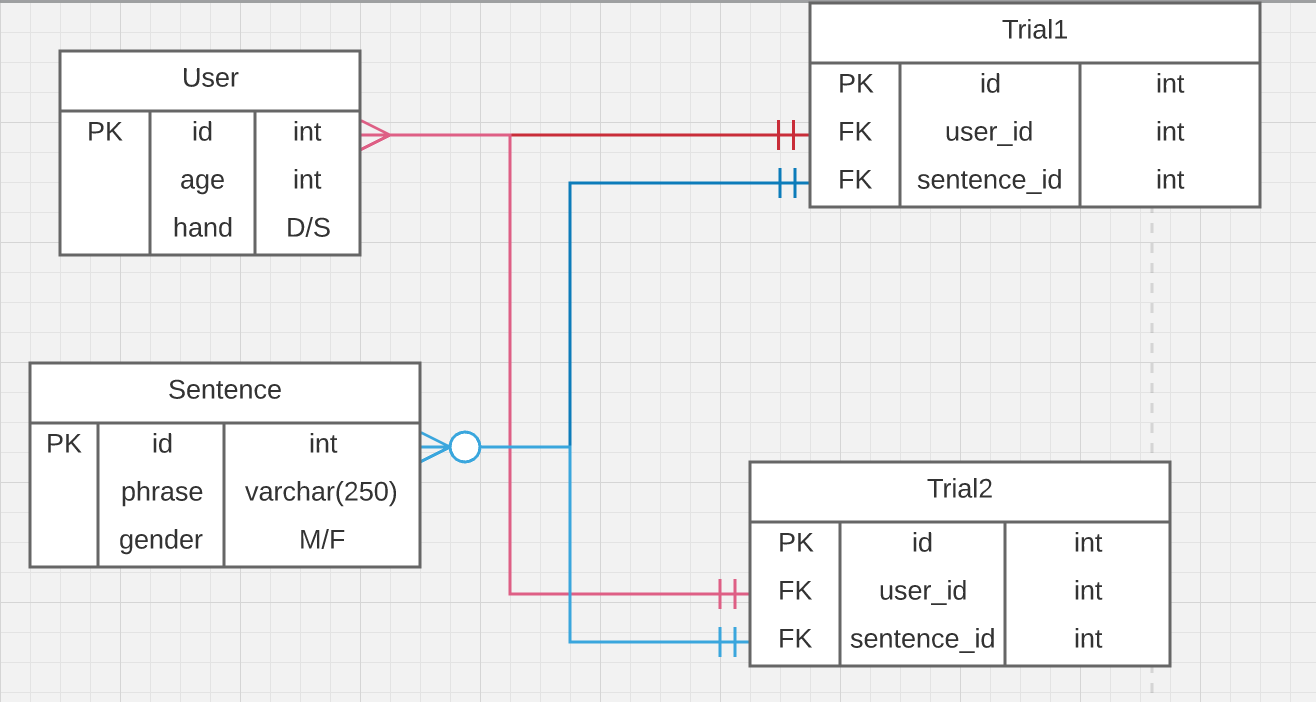
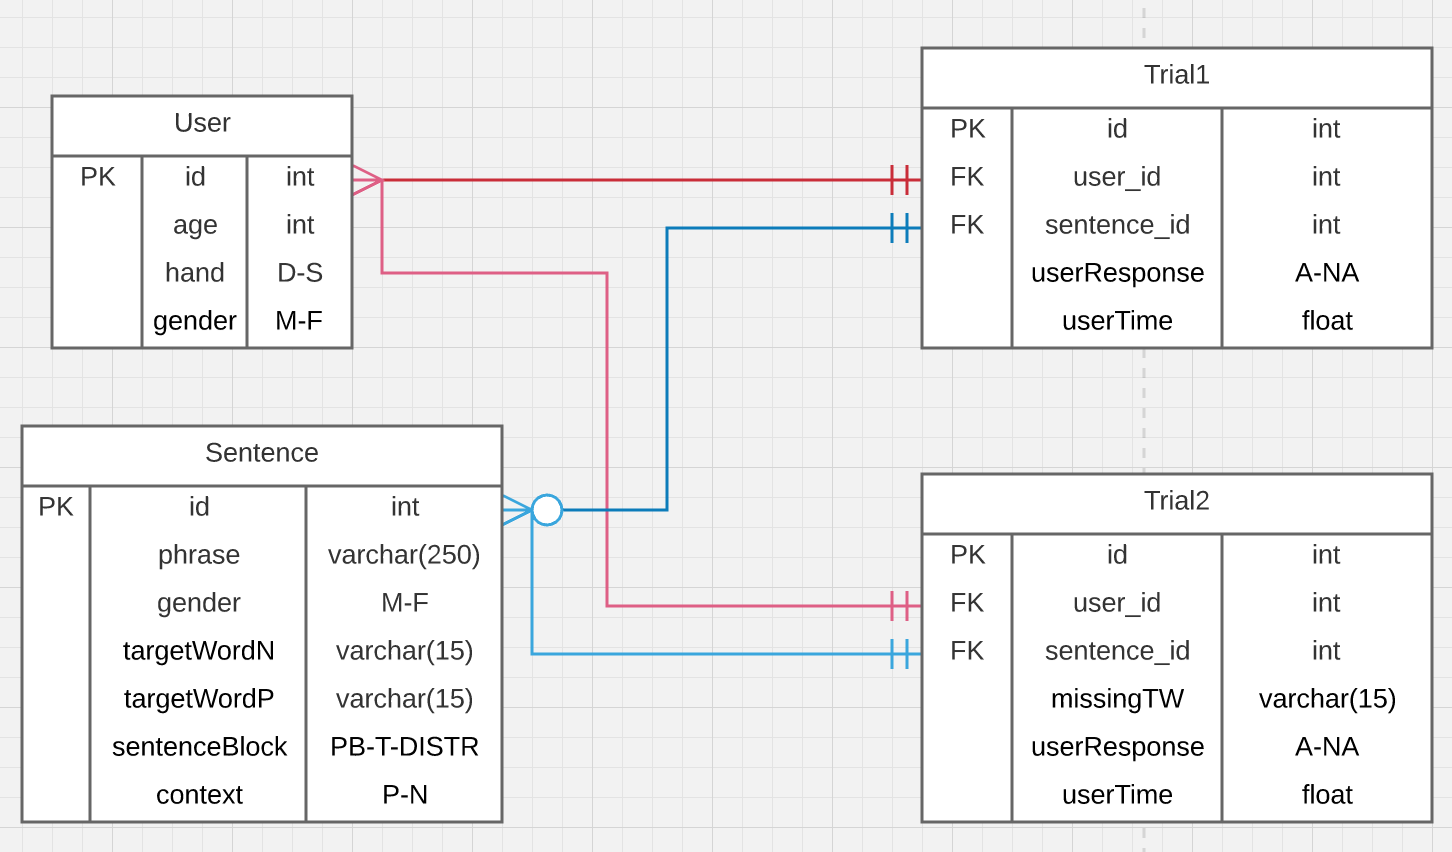
Update the E-R diagram

Changed region(s): [[0.0, 0.0, 1.0, 0.9872]]

diff --git a/analysis/create_db.py b/analysis/create_db.py
@@ -12,18 +12,22 @@ class Person (Base):
     __tablename__ = 'person'
     # Here we define columns for the table person
     id = Column(Integer, primary_key = True)
-    hand = Column(String(1), nullable = False)
-    gender = Column(String(1), nullable = False)
     age = Column(Integer, nullable = False)
-    # The value 1 means the user is reliable, otherwise it will be 0
-    isValid = Column(Boolean, default = 1)
+    hand = Column(String(1), nullable = False)
+    # TODO fix enum type in sqlalchemy
+    gender = Column(Enum('M', 'F'), nullable = False)
     # The file name from where the data are taken
     file_name = Column(String(250), nullable = False)
 
+class Sentence (Base):
+    __tablename__ = 'sentence'
+    # Here we define columns for the table person
+    id = Column(Integer, primary_key = True)
+    phrase = Column(String(250), nullable = False)
 
 # Create an engine that stores data in the local directory's
 # sqlalchemy_example.db file.
-engine = create_engine('sqlite:///arguments.db')
+engine = create_engine('sqlite:///irony.db')
 
 # Create all tables in the engine. This is equivalent to "Create Table"
 # statements in raw SQL.
